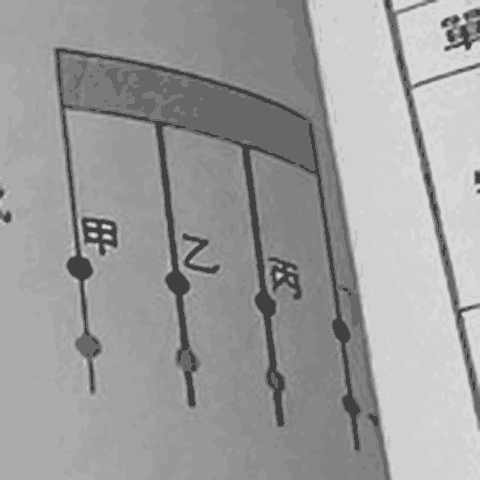
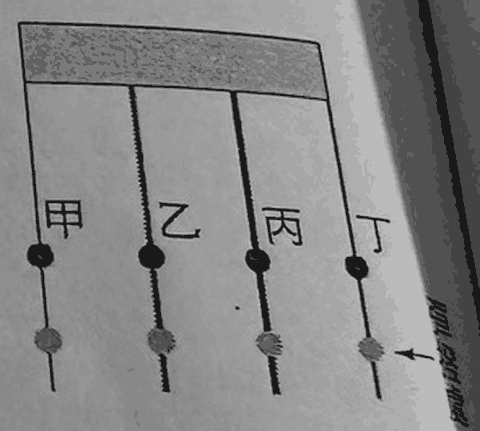
Notebook ch3: resolve p.24 Q8 (ukulele strings) with retaken photo, answer D

diff --git a/notebook-ch3.html b/notebook-ch3.html
@@ -105,7 +105,7 @@ footer{margin-top:34px;font-size:13px;color:var(--ink2);line-height:1.8}
 <header>
   <div class="kicker">八年級上學期 · 自然科學 · 學校講義</div>
   <h1>第 3 章 波動與聲音<br>講義練習（Notebook p.3–28）</h1>
-  <p class="dim">學校發的講義 3-1～3-5，共 <strong>150 題</strong>（選擇 132、填充／計算 18）＋ <strong>74 個重點填空</strong>。
+  <p class="dim">學校發的講義 3-1～3-5，共 <strong>150 題</strong>（選擇 133、填充／計算 17）＋ <strong>74 個重點填空</strong>。
   每題都標「講義第幾頁第幾題」，可以和紙本對照。</p>
   <details class="howto">
     <summary>怎麼用這一頁？</summary>
@@ -279,7 +279,7 @@ footer{margin-top:34px;font-size:13px;color:var(--ink2);line-height:1.8}
 <div class="card" id="q-p23-05" data-id="p23-05" data-kind="mc" data-ans="B"><div class="meta"><span class="tag no">講義 p.23 第 5 題</span><span class="tag">選擇題</span><span class="tag warn">⚠ 有附註</span></div><p class="qt">小茂在水龍頭下以空寶特瓶裝水，當瓶子的水越來越多時，水由上方落到水面的距離也越來越短，試問聽到水落到瓶中的聲音變化為何？</p><div class="opts"><button data-c="A"><b>A</b><span>頻率越來越高，響度越來越大</span></button><button data-c="B"><b>B</b><span>頻率越來越高，響度卻越來越小</span></button><button data-c="C"><b>C</b><span>頻率越來越低，響度越來越大</span></button><button data-c="D"><b>D</b><span>頻率越來越低，響度越來越小</span></button></div><div class="row"><span class="verdict"></span><button class="btn sm redo" hidden>再做一次</button></div><div class="sol" hidden><div class="key sp-atom">答案：(B)</div><p>音調：瓶裡的<strong>空氣柱愈來愈短</strong> → 頻率愈來愈高（裝水時那個「嘟～」愈來愈尖，就是這個）。</p><p>響度：題目特別提到「落下的距離愈來愈短」→ 水打到水面的力道變小 → 響度變小。→ (B)。</p><div class="flag">⚠ 響度這一半要靠題目給的線索（落下距離變短）推；如果老師講法不同，以老師為準。</div></div></div>
 <div class="card" id="q-p23-06" data-id="p23-06" data-kind="mc" data-ans="D"><div class="meta"><span class="tag no">講義 p.23 第 6 題</span><span class="tag">選擇題</span></div><p class="qt">關於排簫所吹出的聲音，下列敘述何者正確？</p><img class="qimg" src="notebook/ch3/p23-06.png" alt="講義 p.23 第 6 題附圖" style="width:480px"><div class="opts"><button data-c="A"><b>A</b><span>管內空氣柱越長，所吹出的音量越大</span></button><button data-c="B"><b>B</b><span>管內空氣柱越長，所吹出的音量越小</span></button><button data-c="C"><b>C</b><span>管內空氣柱越長，所吹出的音調越高</span></button><button data-c="D"><b>D</b><span>管內空氣柱越長，所吹出的音調越低</span></button></div><div class="row"><span class="verdict"></span><button class="btn sm redo" hidden>再做一次</button></div><div class="sol" hidden><div class="key sp-atom">答案：(D)</div><p>管樂器靠空氣柱振動：<strong>愈長愈低、愈短愈高</strong>。管子長短改變的是音調，不是音量。</p></div></div>
 <div class="card" id="q-p24-07" data-id="p24-07" data-kind="mc" data-ans="B"><div class="meta"><span class="tag no">講義 p.24 第 7 題</span><span class="tag">選擇題</span></div><p class="qt">阿康在彈吉他時，發現其中一條弦所彈撥出的聲音太低，下列關於阿康調音的敘述，何者正確？</p><div class="opts"><button data-c="A"><b>A</b><span>利用旋鈕將弦線調緊，以增加聲波振動的振幅</span></button><button data-c="B"><b>B</b><span>利用旋鈕將弦線調緊，以增加聲波振動的頻率</span></button><button data-c="C"><b>C</b><span>利用旋鈕將弦線調鬆，以增加聲波振動的振幅</span></button><button data-c="D"><b>D</b><span>利用旋鈕將弦線調鬆，以增加聲波傳播的速率</span></button></div><div class="row"><span class="verdict"></span><button class="btn sm redo" hidden>再做一次</button></div><div class="sol" hidden><div class="key sp-atom">答案：(B)</div><p>太低 → 要提高頻率 → 調緊。調緊改變的是<strong>頻率</strong>（音調），不是振幅。</p></div></div>
-<div class="card" id="q-p24-08" data-id="p24-08" data-kind="fill" data-ans=""><div class="meta"><span class="tag no">講義 p.24 第 8 題</span><span class="tag">填充／計算</span><span class="tag warn">⚠ 有附註</span></div><p class="qt">右圖為烏克麗麗 4 條弦線粗細示意圖，且每條弦線的鬆緊程度都相同，若分別以手指按壓甲、乙、丙、丁四個位置，試問彈撥出的聲音由高而低依序為何？（選項：(A) 甲乙丙丁　(B) 丁丙乙甲　(C) 丙乙丁甲　(D) 甲丁乙丙）</p><img class="qimg" src="notebook/ch3/p24-08.png" alt="講義 p.24 第 8 題附圖" style="width:480px"><div class="row"><button class="btn sm show">看答案</button><button class="btn sm redo" hidden>收起來</button></div><div class="sol" hidden><div class="key sp-atom">答案：照片看不清，待補拍</div><p>判斷方法：鬆緊一樣時，只比兩件事——<strong>能振動的弦愈短、弦愈細，音調愈高</strong>。</p><p>手指按下去之後，能振動的是「按壓點到琴橋（下端）」那一段：按得愈靠下面，振動的部分愈短、音愈高。再看每條弦的粗細，兩個條件一起比。</p><div class="flag">⚠ 照片上四條弦的粗細看不出差別，丁弦也被裁到一半，<strong>照片看不清，待補拍</strong>（請拍清楚 p.24 右上角的烏克麗麗圖）。</div></div></div>
+<div class="card" id="q-p24-08" data-id="p24-08" data-kind="mc" data-ans="D"><div class="meta"><span class="tag no">講義 p.24 第 8 題</span><span class="tag">選擇題</span></div><p class="qt">右圖為烏克麗麗 4 條弦線粗細示意圖，且每條弦線的鬆緊程度都相同，若分別以手指按壓甲、乙、丙、丁四個位置，試問彈撥出的聲音由高而低依序為何？</p><img class="qimg" src="notebook/ch3/p24-08.png" alt="講義 p.24 第 8 題附圖" style="width:480px"><div class="opts"><button data-c="A"><b>A</b><span>甲乙丙丁</span></button><button data-c="B"><b>B</b><span>丁丙乙甲</span></button><button data-c="C"><b>C</b><span>丙乙丁甲</span></button><button data-c="D"><b>D</b><span>甲丁乙丙</span></button></div><div class="row"><span class="verdict"></span><button class="btn sm redo" hidden>再做一次</button></div><div class="sol" hidden><div class="key sp-atom">答案：(D)</div><p>判斷方法：鬆緊一樣時，只比兩件事——<strong>能振動的弦愈短、弦愈細，音調愈高</strong>。</p><p>先看長短：甲、乙、丙、丁四個按壓點畫在<strong>同一高度</strong>，能振動的長度一樣 → 長短不用比。</p><p>再看粗細：甲、丁是兩條<strong>細弦</strong>，乙、丙是兩條<strong>粗弦</strong>。細的音高，所以甲、丁要排在乙、丙前面。</p><p>四個選項裡，只有 (D) 甲丁乙丙 是「兩條細弦在前、兩條粗弦在後」→ 答案 (D)。</p></div></div>
 <div class="card" id="q-p24-09" data-id="p24-09" data-kind="mc" data-ans="A"><div class="meta"><span class="tag no">講義 p.24 第 9 題</span><span class="tag">選擇題</span></div><p class="qt">阿康音樂課想利用自製樂器來表演，他準備了 5 個相同的玻璃杯，並分別裝入不同體積的水，如右圖所示，阿康改以在杯口處吹氣，使杯子發出不同音調的聲音，試問杯子發出的聲音由低而高依序為何？</p><img class="qimg" src="notebook/ch3/p24-09.png" alt="講義 p.24 第 9 題附圖" style="width:480px"><div class="opts"><button data-c="A"><b>A</b><span>甲乙丙丁戊</span></button><button data-c="B"><b>B</b><span>戊丁丙乙甲</span></button><button data-c="C"><b>C</b><span>丙乙丁甲戊</span></button><button data-c="D"><b>D</b><span>乙丙丁戊甲</span></button></div><div class="row"><span class="verdict"></span><button class="btn sm redo" hidden>再做一次</button></div><div class="sol" hidden><div class="key sp-atom">答案：(A)</div><p>在杯口<strong>吹氣</strong>，振動的是杯子裡的<em>空氣柱</em>。水愈多、空氣柱愈短、音調愈高。</p><p>圖中甲的水最少（空氣柱最長、最低）→ 戊的水最多（最高）→ 由低而高：甲乙丙丁戊。</p><p class='mx-pt'>如果改成「用筷子敲杯子」，答案會反過來：那時振動的是杯子和水，水愈多愈重、振動愈慢、音愈低。</p></div></div>
 <div class="card" id="q-p24-10" data-id="p24-10" data-kind="mc" data-ans="C"><div class="meta"><span class="tag no">講義 p.24 第 10 題</span><span class="tag">選擇題</span><span class="tag warn">⚠ 有附註</span></div><p class="qt">每秒打鼓 10 下時，所聽到鼓聲的頻率可能為多少赫？</p><div class="opts"><button data-c="A"><b>A</b><span>0.1</span></button><button data-c="B"><b>B</b><span>10</span></button><button data-c="C"><b>C</b><span>5000</span></button><button data-c="D"><b>D</b><span>50000</span></button></div><div class="row"><span class="verdict"></span><button class="btn sm redo" hidden>再做一次</button></div><div class="sol" hidden><div class="key sp-atom">答案：(C)</div><p>陷阱：每秒打 10 下是<strong>敲的節奏</strong>，不是聲音的頻率。聲音的頻率是鼓皮每秒振動的次數。</p><p>人聽得到的範圍是 20～20000 Hz：(A)(B) 太低聽不到，(D) 太高聽不到 → 只有 (C) 5000 Hz 可能。</p><div class="flag">⚠ 第 10、11 題在講義上一字不差重複出現，應是排版重複，兩題答案相同。</div></div></div>
 <div class="card" id="q-p24-11" data-id="p24-11" data-kind="mc" data-ans="C"><div class="meta"><span class="tag no">講義 p.24 第 11 題</span><span class="tag">選擇題</span></div><p class="qt">每秒打鼓 10 下時，則所聽到鼓聲的頻率可能為多少赫？</p><div class="opts"><button data-c="A"><b>A</b><span>0.1</span></button><button data-c="B"><b>B</b><span>10</span></button><button data-c="C"><b>C</b><span>5000</span></button><button data-c="D"><b>D</b><span>50000</span></button></div><div class="row"><span class="verdict"></span><button class="btn sm redo" hidden>再做一次</button></div><div class="sol" hidden><div class="key sp-atom">答案：(C)</div><p>和第 10 題完全一樣（講義重複印了一次）：答案 5000 Hz。</p></div></div>
@@ -471,7 +471,7 @@ footer{margin-top:34px;font-size:13px;color:var(--ink2);line-height:1.8}
 <details><summary><span class="n">第 6 題</span><span class="a">(D)</span><span class="h">看解析 ▾</span></summary><div class="sol"><div class="key sp-atom">答案：(D)</div><p>管樂器靠空氣柱振動：<strong>愈長愈低、愈短愈高</strong>。管子長短改變的是音調，不是音量。</p></div></details>
 <h3 id="k-p24">講義 p.24</h3>
 <details><summary><span class="n">第 7 題</span><span class="a">(B)</span><span class="h">看解析 ▾</span></summary><div class="sol"><div class="key sp-atom">答案：(B)</div><p>太低 → 要提高頻率 → 調緊。調緊改變的是<strong>頻率</strong>（音調），不是振幅。</p></div></details>
-<details><summary><span class="n">第 8 題</span><span class="a w">照片看不清，待補拍</span> <span class="tag warn">⚠</span><span class="h">看解析 ▾</span></summary><div class="sol"><div class="key sp-atom">答案：照片看不清，待補拍</div><p>判斷方法：鬆緊一樣時，只比兩件事——<strong>能振動的弦愈短、弦愈細，音調愈高</strong>。</p><p>手指按下去之後，能振動的是「按壓點到琴橋（下端）」那一段：按得愈靠下面，振動的部分愈短、音愈高。再看每條弦的粗細，兩個條件一起比。</p><div class="flag">⚠ 照片上四條弦的粗細看不出差別，丁弦也被裁到一半，<strong>照片看不清，待補拍</strong>（請拍清楚 p.24 右上角的烏克麗麗圖）。</div></div></details>
+<details><summary><span class="n">第 8 題</span><span class="a">(D)</span><span class="h">看解析 ▾</span></summary><div class="sol"><div class="key sp-atom">答案：(D)</div><p>判斷方法：鬆緊一樣時，只比兩件事——<strong>能振動的弦愈短、弦愈細，音調愈高</strong>。</p><p>先看長短：甲、乙、丙、丁四個按壓點畫在<strong>同一高度</strong>，能振動的長度一樣 → 長短不用比。</p><p>再看粗細：甲、丁是兩條<strong>細弦</strong>，乙、丙是兩條<strong>粗弦</strong>。細的音高，所以甲、丁要排在乙、丙前面。</p><p>四個選項裡，只有 (D) 甲丁乙丙 是「兩條細弦在前、兩條粗弦在後」→ 答案 (D)。</p></div></details>
 <details><summary><span class="n">第 9 題</span><span class="a">(A)</span><span class="h">看解析 ▾</span></summary><div class="sol"><div class="key sp-atom">答案：(A)</div><p>在杯口<strong>吹氣</strong>，振動的是杯子裡的<em>空氣柱</em>。水愈多、空氣柱愈短、音調愈高。</p><p>圖中甲的水最少（空氣柱最長、最低）→ 戊的水最多（最高）→ 由低而高：甲乙丙丁戊。</p><p class='mx-pt'>如果改成「用筷子敲杯子」，答案會反過來：那時振動的是杯子和水，水愈多愈重、振動愈慢、音愈低。</p></div></details>
 <details><summary><span class="n">第 10 題</span><span class="a w">(C)</span> <span class="tag warn">⚠</span><span class="h">看解析 ▾</span></summary><div class="sol"><div class="key sp-atom">答案：(C)</div><p>陷阱：每秒打 10 下是<strong>敲的節奏</strong>，不是聲音的頻率。聲音的頻率是鼓皮每秒振動的次數。</p><p>人聽得到的範圍是 20～20000 Hz：(A)(B) 太低聽不到，(D) 太高聽不到 → 只有 (C) 5000 Hz 可能。</p><div class="flag">⚠ 第 10、11 題在講義上一字不差重複出現，應是排版重複，兩題答案相同。</div></div></details>
 <details><summary><span class="n">第 11 題</span><span class="a">(C)</span><span class="h">看解析 ▾</span></summary><div class="sol"><div class="key sp-atom">答案：(C)</div><p>和第 10 題完全一樣（講義重複印了一次）：答案 5000 Hz。</p></div></details>
